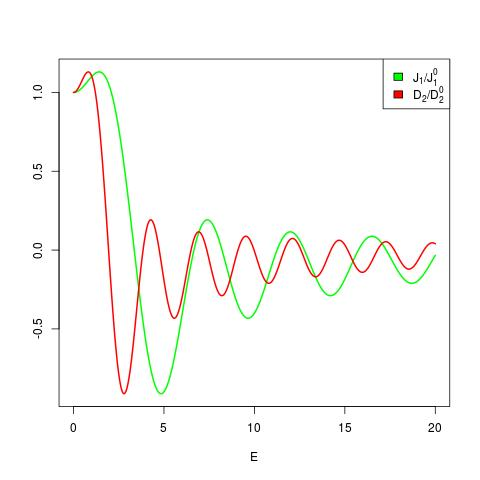
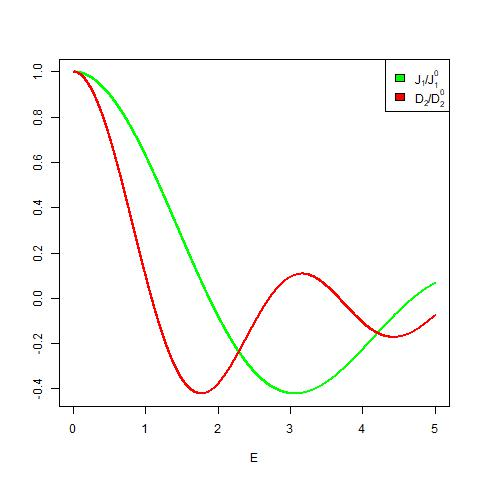
moar

diff --git a/Chapters/Chap3/ModelsNNN.tex b/Chapters/Chap3/ModelsNNN.tex
@@ -51,7 +51,7 @@ J_{2,ij} &= J_2^0 + t_2^2 \frac{3\mathcal{E}^2}{2} \left( \frac{1}{\text{U}+\ome
 
 Where $J_n^0 = \frac{t_n^2}{\text{U}}$ and where we used that $|\bs{R}_{ij}| = a$ for NN and $|\bs{R}_{ij}| = \sqrt{3}a$ for NNN in a honeycomb lattice. The other coupling factors in \ref{DGeneral} and \ref{GammaGeneral} can be approximated in the same way.
 
-In subsection (add reference!!!!!!!!!!!) we will investigate this numerically. The reason for this is that in a hopping process, the electron picks up a phase $e^{ie\bs{R}_{ij}\bs{A}(t)}$ (assuming flat field approximation). This phase will be larger for NNN hopping than for NN hopping and this will therefore translate in the corresponding spin interactions.
+In section \ref{Numerics} we will investigate this numerically. The reason for this is that in a hopping process, the electron picks up a phase $e^{ie\bs{R}_{ij}\bs{A}(t)}$ (assuming flat field approximation). This phase will be larger for NNN hopping than for NN hopping and this will therefore translate in the corresponding spin interactions.
 
 Next we will show several well-known models which are described by \ref{BigHam}.
 
@@ -60,12 +60,14 @@ Next we will show several well-known models which are described by \ref{BigHam}.
 The first model to describe topological insulators was introduced by Kane and Mele \cite{Kane2005} to describe quantum spin Hall effect in graphene. In a honeycomb lattice time reversal symmetry and inversion symmetry allow only next-nearest neighbor spin orbit coupling, which is known as intrinsic spin orbit coupling. In these circumstances the system can be modeled by the Kane-Mele-Hubbard model:
 
 \begin{align}
+\label{KMH}
 \hat{H}_{\text{KMH}} &= -t_1\sum_{\langle i j \rangle \sigma} \hat{c}^{\dagger}_{i\sigma}\hat{c}_{j\sigma} + i\Delta \sum_{\langle \langle i j \rangle \rangle \sigma \sigma'} \hat{c}^{\dagger}_{i\sigma} \nu_{ij} \sigma^z_{\sigma \sigma'} \hat{c}_{j\sigma'} + \text{U}\hat{D}
 \end{align}
 
 Where $\Delta$ is the intrinsic spin orbit coupling constant. $\nu_{ij}=\pm 1$ depending on whether the electron traversing from $i$ to $j$ makes a right ($+1$) or a left turn ($-1$). This Hamiltonian is described by \ref{BigHam} if we set $\bs{\Delta}_{1,ij} = 0$, $t_2 = 0$ and $\bs{\Delta}_{2,ij} = -i\Delta \nu_{ij} \hat{e}_z$. Then, the effective spin model will be:
 
 \begin{equation}
+\label{KMHeff}
 \hat{H}_{\text{KMH}}^{\text{eff}}(t) = \sum_{\langle i,j \rangle} J_{ij}(t) \bs{S}_i \bs{S}_j + \sum_{\langle \langle i,j \rangle \rangle} \bs{S}_i \bs{\Gamma}_{ij}(t) \bs{S}_j 
 \end{equation}
 
@@ -82,7 +84,38 @@ according to \ref{JGeneral} and \ref{GammaGeneral}. Notice that:
 \bs{S}_i \bs{\Gamma}_{ij}(t) \bs{S}_j = \Delta^2 \mathcal{M}(\alpha_{ij}, \text{U}, \omega, t) \left(S_i^zS_j^z - S_i^xS_j^x - S_i^yS_j^y\right)
 \end{equation*}
 
-This describes a type of anisotropic exchange interaction known as XXZ Heisenberg model for next nearest neighbors. The same spin model is obtain in \cite{Rachel2010} without the laser perturbation. If the laser field is not too strong so that we can assume $\mathcal{M}(\alpha_{ij}, \text{U}, \omega, t) > 0$, then $\Gamma^{zz}_{ij}(t) > 0$. Therefore we see that this interaction favors antiferromagnetic order in the $\hat{e}_z$ direction and ferromagnetic order in the $\hat{e}_x-\hat{e}_y$ plane. The exchange interaction $J_{ij}(t)$ will favor antiferromagnetic order for nearest neighbors, so that next nearest neighbors will tend to be aligned. Therefore, $\Gamma^{zz}_{ij}(t)$ will compete against $J_{ij}(t)$ in the $\hat{e}_z$ direction. In the $\hat{e}_x-\hat{e}_y$ plane, $\bs{\Gamma}_{ij}(t)$ will favor ferromagnetic order between next nearest neighbors, which adds to the effect of $J_{ij}(t)$. In general the strength of the exchange interaction will be larger and the net effect of $\bs{\Gamma}_{ij}(t)$ will be a tilting of the spins towards the $\hat{e}_x$-$\hat{e}_y$ plane.
+This describes a type of anisotropic exchange interaction known as XXZ Heisenberg model for next nearest neighbors. The same spin model is obtained in \cite{Rachel2010} without the laser perturbation. If the laser field is not too strong so that we can assume $\mathcal{M}(\alpha_{ij}, \text{U}, \omega, t) > 0$, then $\Gamma^{zz}_{ij}(t) > 0$. Therefore we see that this interaction favors antiferromagnetic order in the $\hat{e}_z$ direction and ferromagnetic order in the $\hat{e}_x-\hat{e}_y$ plane. The exchange interaction $J_{ij}(t)$ will favor antiferromagnetic order for nearest neighbors, so that next nearest neighbors will tend to be aligned. Therefore, $\Gamma^{zz}_{ij}(t)$ will compete against $J_{ij}(t)$ in the $\hat{e}_z$ direction. In the $\hat{e}_x-\hat{e}_y$ plane, $\bs{\Gamma}_{ij}(t)$ will favor ferromagnetic order between next nearest neighbors, which adds to the effect of $J_{ij}(t)$. In general the strength of the exchange interaction will be larger and the net effect of $\bs{\Gamma}_{ij}(t)$ will be a tilting of the spins towards the $\hat{e}_x$-$\hat{e}_y$ plane.
+
+\end{subsection}
+
+\begin{subsection}{Modified Kane-Mele-Hubbard model}
+
+As we saw in the previous section the effective Hamiltonian \ref{KMHeff} does not contain NNN DMI terms. The reason for this is because in the original Hamiltonian $t_2 = 0$. Next we will study the same Hamiltonian adding a finite NNN hopping terms $t_2$. In general this is more accurate than imposing $t_2 = 0$, and it can be understood as a second order NN hopping process (the direct NNN hopping integral would usually be much smaller). Our next Hamiltonian is thus:
+
+\begin{equation}
+\label{MKMH}
+\hat{H} = - t_1\sum_{\langle i,j \rangle, \sigma} \hat{c}_{i \sigma}^\dagger \hat{c}_{j \sigma} + 
+	\sum_{\langle \langle i,j \rangle \rangle, \sigma}(t_2 + i\Delta\nu_{ij}\sigma^z_{\sigma, \sigma})\hat{c}_{i \sigma}^\dagger \hat{c}_{j \sigma} + 
+	\text{U}\hat{D}
+\end{equation}
+
+This corresponds to the case $\bs{\Delta}_{1,ij} = 0$ and $\bs{\Delta}_{2,ij} = (0, 0, i \nu_{ij} \Delta)$ in \ref{BigHam}. With this, the effective Hamiltonian will be:
+
+\begin{equation}
+\label{MKMHeff}
+\hat{H}_{\text{eff}}(t) = \sum_{\langle i,j \rangle} J_{1,ij}(t)\bs{S}_i\bs{S}_j + \sum_{\langle \langle i,j \rangle \rangle} \left\{ J_{2,ij}(t)\bs{S}_i\bs{S}_j + \bs{D}_{2,ij}(t) \bs{S}_i \times \bs{S}_j + \bs{S}_i \bs{\Gamma}_{ij}(t) \bs{S}_j \right\}
+\end{equation}
+
+Where:
+
+\begin{align*}
+J_{1,ij}(t) &= t_1^2\mathcal{M}(\alpha_{ij}, \text{U}, \omega, t) \\
+J_{2,ij}(t) &= t_2^2\mathcal{M}(\alpha_{ij}, \text{U}, \omega, t) \\
+\bs{D}_{2,ij}(t) &= - 2\nu_{ij} t_2 \Delta \hat{e}_z \mathcal{M}(\alpha_{ij}, \text{U}, \omega, t) \\
+\bs{\Gamma}_{2,ij}(t) &= \Delta^2 \text{diag}(-1,-1,1) \mathcal{M}(\alpha_{ij}, \text{U}, \omega, t) 
+\end{align*}
+
+Now, a Hamiltonian with the form $\hat{H} = \sum_{\langle i,j \rangle} J_1 \bs{S}_i\bs{S}_j + \sum_{\langle \langle i,j \rangle \rangle} J_2\bs{S}_i\bs{S}_j$ is known as the $J_1$-$J_2$ Heisenberg model and in a 2D honeycomb lattice it exhibits N\'eel order for $J_2 < J_1 / 6$ and for $J_2 > J_1 / 6$ spin density waves (SDW) appear \cite{Mulder2010}. In the presence of DMI alone there will always be SDW in the plane perpendicular to $\bs{D}$ \cite{Uchida2006}. In Hamiltonian \ref{MKMHeff} we expect SDW to appear in the ground state and the SDW wavevector will be determined by a function of the parameters of this model. In the next section we will do a numerical of study on how modifying the ratio between NN and NNN spin interaction factors can change the spin state of the system.
 
 \end{subsection}
 

diff --git a/Chapters/Chap3/Numerics.tex b/Chapters/Chap3/Numerics.tex
@@ -1,0 +1,53 @@
+\begin{section}{Numerics}
+\label{Numerics}
+
+We will start with a one dimensional chain with hamiltonian $\hat{H} = \sum_{\langle i,j \rangle} |J_1| \bs{S}_i\bs{S}_j + \sum_{\langle \langle i,j \rangle \rangle} \nu_{ij}|D_2|\hat{e}_z\bs{S}_i\bs{S}_j$. This approximated Hamiltonian with no NNN exchange interaction is very simple, but it can describe some systems where it has even been observed $|\bs{D}_{2,ij}| > |J_{2,ij}|$ \cite{Chen2018}. In this case we can write $\bs{S}(r) = S(\cos(kr), \sin(kr), 0)$, where the real number $k$ plays the role of the wavevector, and $\theta = ka-\pi$ is the deviation from the N\'eel state. Then the classical energy per site is given by:
+
+\begin{equation}
+\frac{E(\theta)}{2S^2} = -|J_1|\cos(\theta) + |D_2|\sin(2 \theta)
+\end{equation}
+
+and the energy is minimized for $\theta^* = \arcsin(\frac{\frac{J1}{D2} - \sqrt{(\frac{J1}{D2})^2+32}}{8})$, i.e. $\theta^* = \theta^*(\frac{J1}{D2})$. Next we will show numerically that the ratio between the NN and NNN parameters, $\frac{J1}{D2}$, can be modulated by the intensity of the field, and therefore the field can be used to control the SDW wavevector. 
+
+We will use the time average approximation \ref{MFactorApprox0} so that we can write:
+
+\begin{align}
+J_{1,ij} &= J_{1,ij}^0  \sum_{n} \frac{\mathcal{J}_n(\alpha_{ij})^2}{1+n\frac{\omega}{\text{U}}} \\
+D_{2,ij} &= D_{2,ij}^0  \sum_{n} \frac{\mathcal{J}_n(\alpha_{ij})^2}{1+n\frac{\omega}{\text{U}}}
+\end{align}
+
+Where $\bs{D}_{2,ij} = \hat{e}_z D_{2,ij}$ and where $J_{1,ij}^0 = J_{1}^0 = \frac{2t_1^2}{\text{U}}$ and $D_{2,ij}^0 = -\frac{4t_2\Delta\nu_{ij}}{\text{U}}$. Since $\mathcal{J}_n(-x) = (-1)^n\mathcal{J}_n(x)$ the dependance is on $|\alpha_{ij}|$ only. Now, using \ref{Def_alpha}, for circularly polarized light we have $|\alpha_{ij}| = \frac{1}{\sqrt{2}}e|\vec{R}_{ij}| \frac{E_0}{\omega} = \frac{1}{\sqrt{2}}ea \frac{E_0}{\omega} \frac{|\vec{R}_{ij}|}{a} = \frac{|\vec{R}_{ij}|}{\sqrt{2}a} \mathcal{E}$, where $a$ is the lattice constant and $\mathcal{E} = \frac{eaE_0}{\omega}$. Now, for $J_{1,ij}$, $i$ and $j$ are NN and so we can write $|\vec{R}_{ij}|=a$, whereas for $D_{2,ij}$, $i$ and $j$ are NNN and so $|\vec{R}_{ij}|=\sqrt{3}a$. Thus:
+
+\begin{align}
+J_{1,ij} &= J_{1} = J_{1}^0  \sum_{n} \frac{\mathcal{J}_n(\frac{1}{\sqrt{2}}\mathcal{E})^2}{1+n\frac{\omega}{\text{U}}} \\
+D_{2,ij} &= D_{2,ij}^0  \sum_{n} \frac{\mathcal{J}_n(\sqrt{\frac{3}{2}}\mathcal{E})^2}{1+n\frac{\omega}{\text{U}}}
+\end{align}
+
+In each case the absolute vale is independent of $i,j$.  Now, in units $\hbar=t_1=1$ we measure energy in units of $t_1$ and frequency in units of $\frac{t_1}{\hbar}$. Then, for $t_2 = 0.1$, $\Delta = 0.5$, $\text{U} = 10$ and $\omega = 6$ we obtain \ref{Fig1:NNvsNNN}. The ratio $\frac{J_{1,ij}}{D_{2,ij}}$ is plotted in \ref{Fig1:ratio}. Finally, in \ref{Fig2} we plot the SDW NN angle $\theta$.
+
+\begin{figure}
+\centering
+\begin{subfigure}{.5\textwidth}
+  \centering
+  \includegraphics[width=1\linewidth]{Chapters/NNvsNNN.jpg}
+  \caption{$\frac{J_{1}}{J_{1}^0}$ and $\frac{D_{2,ij}}{D_{2,ij}^0}$ are plotted as function of $\mathcal{E}$. Similar results are obtained in \cite{Mentink2015} for $J_{1}$.}
+  \label{Fig1:NNvsNNN}
+\end{subfigure}%
+\begin{subfigure}{.5\textwidth}
+  \centering
+  \includegraphics[width=1\linewidth]{Chapters/ratio.jpg}
+  \caption{$\frac{J_{1}}{D_{2,ij}}$ is plotted as function of $\mathcal{E}$, it diverges every time $D_{2,ij}$ changes sign.}
+  \label{Fig1:ratio}
+\end{subfigure}
+%\caption{A figure with two subfigures}
+\label{Fig1}
+\end{figure}
+
+\begin{figure}
+\centering
+  \includegraphics[width=0.5\linewidth]{Chapters/theta.jpg}
+  \caption{The spin wave density NN angle $\theta$ as a function of $\mathcal{E}$. The field modifies the ratio $\frac{J_{1}}{D_{2,ij}}$ thus modifying the wave vector.}
+\label{Fig2}
+\end{figure}
+
+\end{section}

diff --git a/Chapters/Chapter3.tex b/Chapters/Chapter3.tex
@@ -27,7 +27,7 @@ Non-coplanar honeycomb lattice may exhibit intrinsic Rashba interactions between
 
 \input{Chapters/Chap3/ModelsNNN}
 
-\input{Chapters/Chap3/OtherHams}
+\input{Chapters/Chap3/Numerics}
 
 \begin{subappendices}
 \begin{section}{Peierls Substitution}
